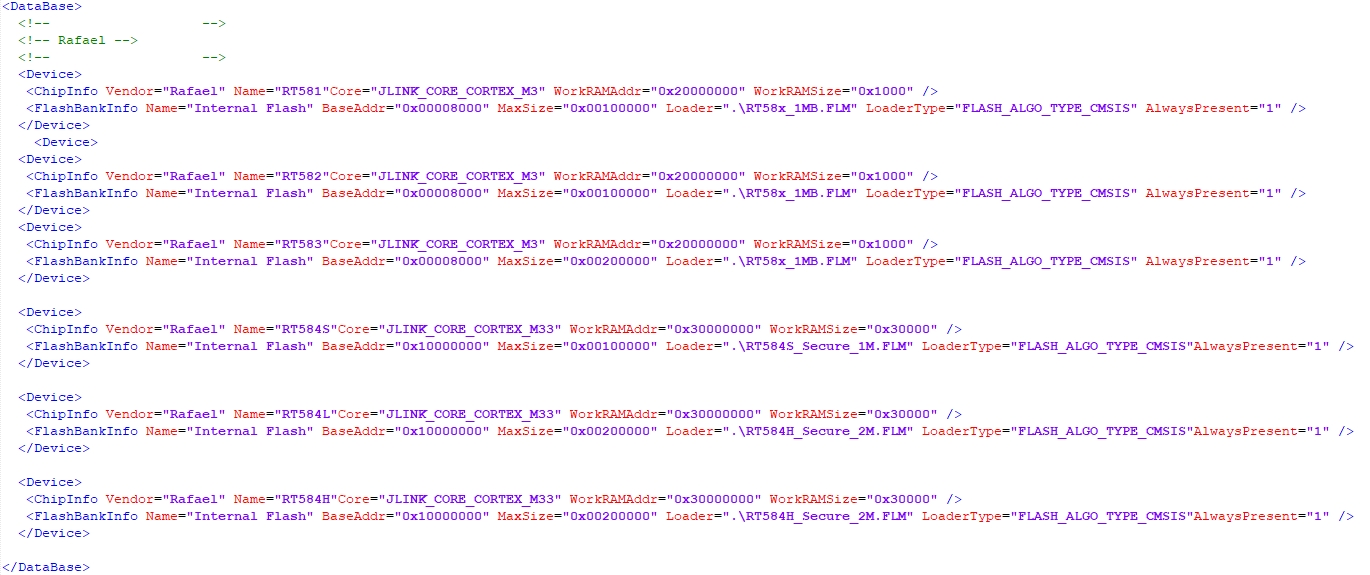
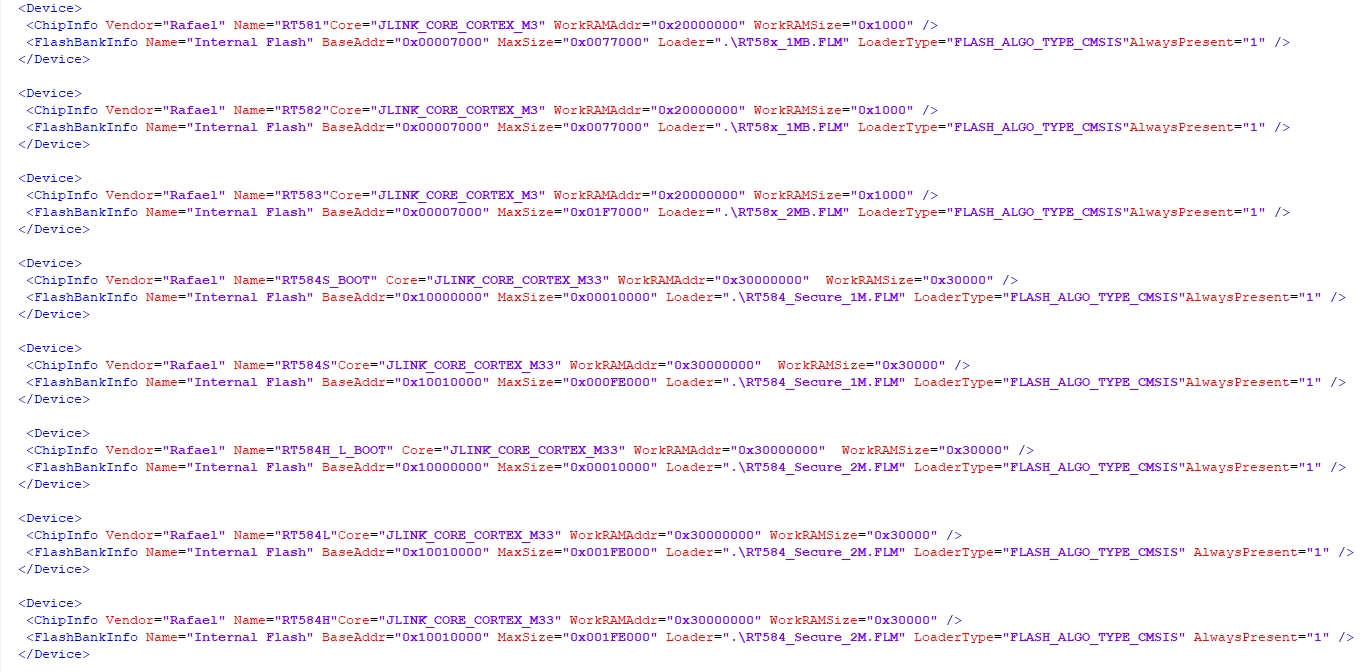
update docs files

Changed region(s): [[0.0, 0.0, 0.981, 1.0]]

diff --git a/docs/SDK_Setup/sdk_setup.md b/docs/SDK_Setup/sdk_setup.md
@@ -4,7 +4,7 @@
 ## Recommended Versions
 | Tool              | Version       | Notes                                           |
 | ----------------- | ------------- | ----------------------------------------------- |
-| ARM GNU Toolchain | 14.2          | Official precompiled binaries                   |
+| ARM GNU Toolchain | 14.2 or later | Official precompiled binaries                   |
 | CMake             | 3.24 or later | Requires support for `Presets` and Ninja        |
 | Ninja             | 1.11 or later | Typically used with CMake                       |
 | Git               | 2.39 or later | Git LFS recommended                             |
@@ -108,7 +108,7 @@ Click **Install** to start the installation.
     - **Linux** → Terminal
 2. Type the command:
     ```bash
-    JLink.exe
+    JLinkExe
     ```
    Expected output:
     ```
@@ -122,7 +122,6 @@ Click **Install** to start the installation.
     Windows (64-bit)  - C:\Program Files\SEGGER\JLink\JLinkDevices.xml
     Windows (32-bit)  - C:\Program Files (x86)\SEGGER\JLink\JLinkDevices.xml
   ```
-
 
 > **Note**
 >
@@ -188,6 +187,42 @@ Click **Install** to start the installation.
 >                    LoaderType="FLASH_ALGO_TYPE_CMSIS"  
 >                    AlwaysPresent="1" />  
 > </Device>
+> <Device>
+>     <ChipInfo Vendor="Rafael" Name="RT584H_L_BOOT"  
+>               Core="JLINK_CORE_CORTEX_M3"   
+>               WorkRAMAddr="0x30000000"   
+>               WorkRAMSize="0x30000" />  
+>     <FlashBankInfo Name="Internal Flash"  
+>                    BaseAddr="0x10000000"
+>                    MaxSize="0x00010000"
+>                    Loader=".\RT584_Secure_2M.FLM"  
+>                    LoaderType="FLASH_ALGO_TYPE_CMSIS"  
+>                    AlwaysPresent="1" />  
+> </Device>
+> <Device>
+>     <ChipInfo Vendor="Rafael" Name="RT584H"  
+>               Core="JLINK_CORE_CORTEX_M3"   
+>               WorkRAMAddr="0x30000000"   
+>               WorkRAMSize="0x30000" />  
+>     <FlashBankInfo Name="Internal Flash"  
+>                    BaseAddr="0x10010000"
+>                    MaxSize="0x001FE000"
+>                    Loader=".\RT584_Secure_2M.FLM"  
+>                    LoaderType="FLASH_ALGO_TYPE_CMSIS"  
+>                    AlwaysPresent="1" />  
+> </Device>
+> <Device>
+>     <ChipInfo Vendor="Rafael" Name="RT584L"  
+>               Core="JLINK_CORE_CORTEX_M3"   
+>               WorkRAMAddr="0x30000000"   
+>               WorkRAMSize="0x30000" />  
+>     <FlashBankInfo Name="Internal Flash"  
+>                    BaseAddr="0x10010000"
+>                    MaxSize="0x001FE000"
+>                    Loader=".\RT584_Secure_2M.FLM"  
+>                    LoaderType="FLASH_ALGO_TYPE_CMSIS"  
+>                    AlwaysPresent="1" />  
+> </Device>
 > ```
 
  ### Reference the picture below:                
@@ -208,6 +243,7 @@ Please modify the paths according to your actual J-Link installation directory.
 
 
 {
+    "cortex-debug.JLinkPath": "C:/Program Files/SEGGER/JLink/JLink.exe",
     "cortex-debug.JLinkGDBServerPath": "C:/Program Files/SEGGER/JLink/JLinkGDBServerCL.exe"
 }
 ```
